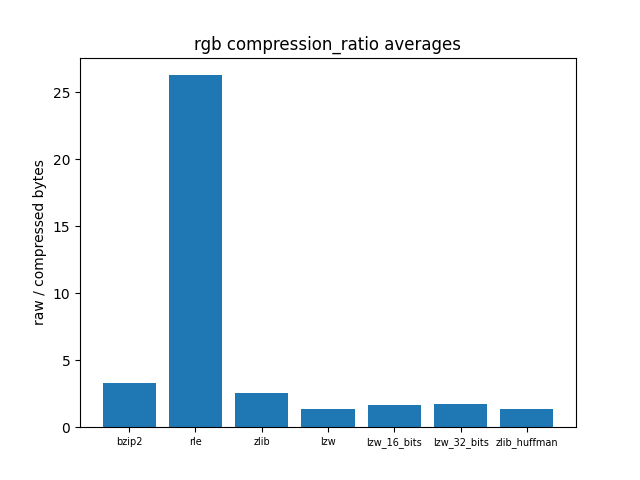
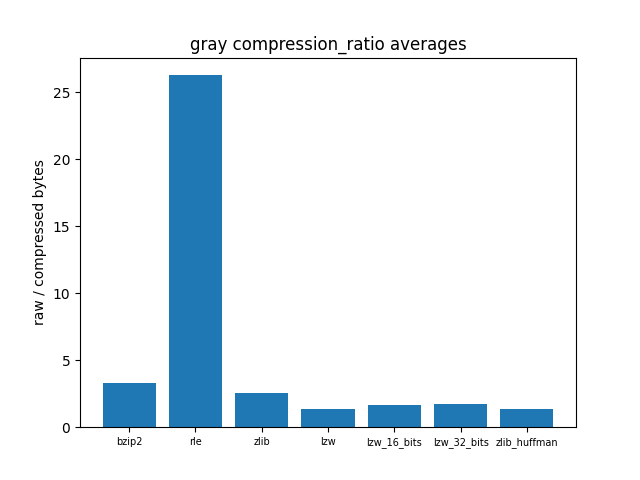
adds more gray graphs

Changed region(s): [[0.2812, 0.0625, 0.7188, 0.125]]

diff --git a/analysis.py b/analysis.py
@@ -151,7 +151,7 @@ for i, metric in enumerate(["compress_time", "decompress_time", "compression_rat
     plt.rc("xtick", labelsize=7)
     plt.bar(algos, values)
     plt.ylabel(units[metric])
-    plt.title("rgb " + metric + " averages")
+    plt.title("gray " + metric + " averages")
     plt.savefig(f"./results/graphs/average_gray_{metric}.png")
     plt.clf()
 
